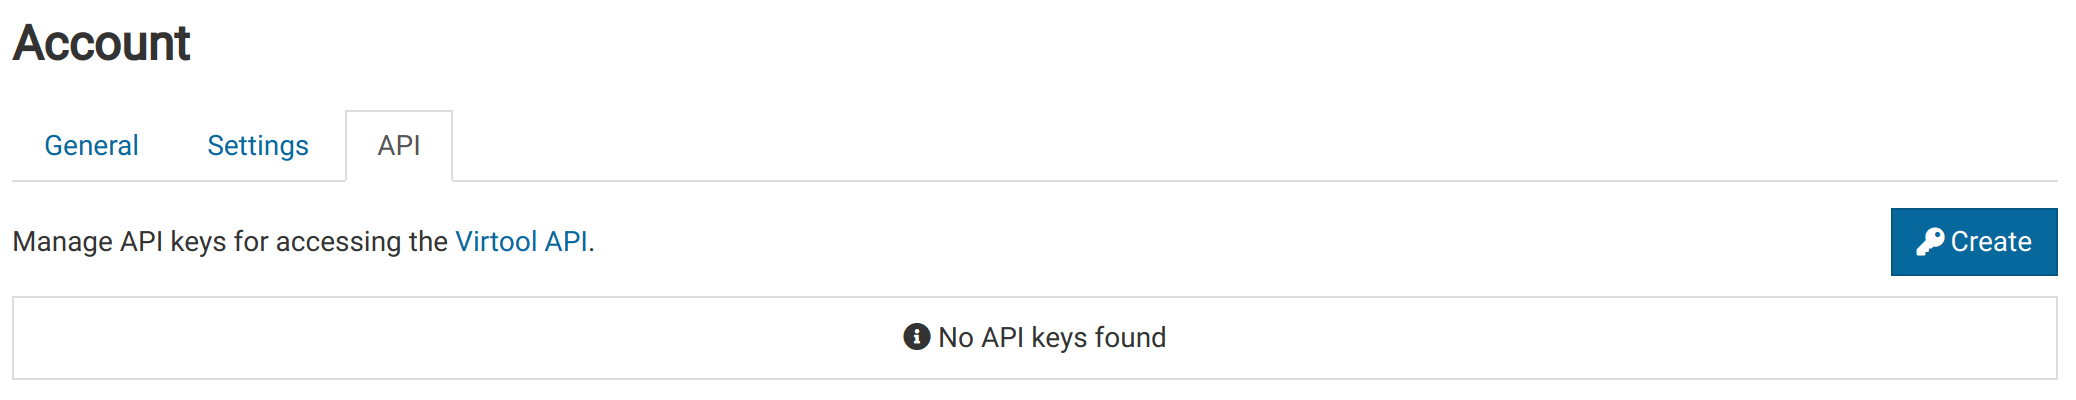
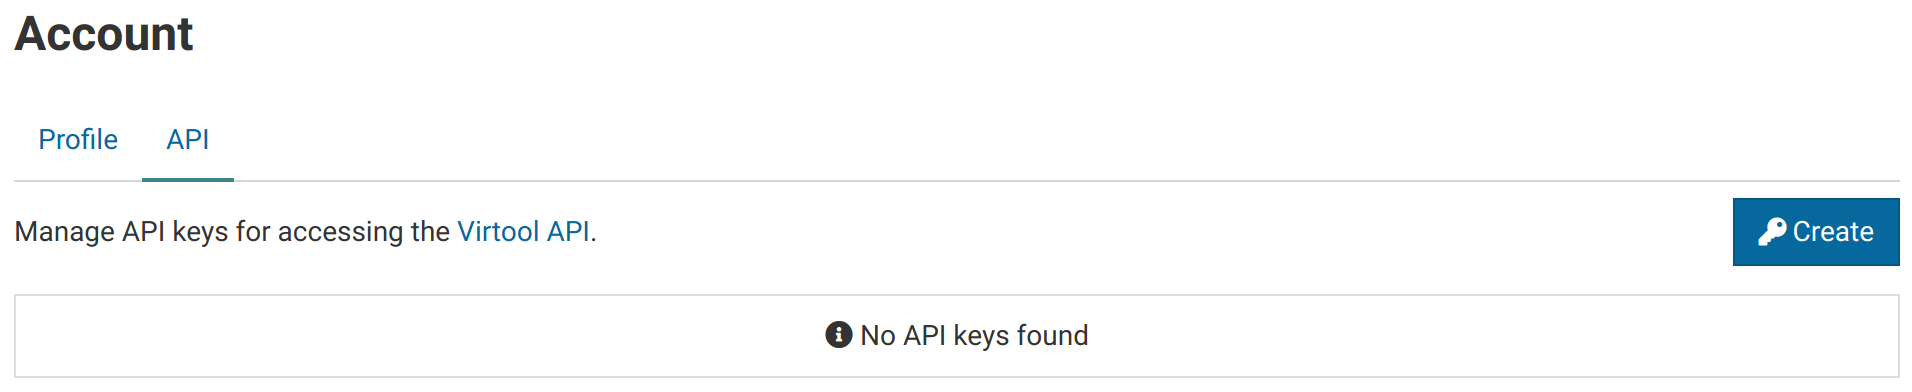
Update account user guide

diff --git a/content/docs/manual/ug_account/index.md b/content/docs/manual/ug_account/index.md
@@ -28,14 +28,6 @@ You can change your password under the _General_ tab. By default, new passwords 
 
 ![Change Password](password.png)
 
-# Settings {#settings}
-
-Some settings are account-specific. These can be modified under the _Settings_ tab.
-
-Currently, the only account-specific settings is toggling the visibility of unique IDs in the user interface. They are useful for debugging purposes and are invisible by default.
-
-![Settings](settings.png)
-
 # API Keys {#api_keys}
 
 Virtool exposes a complete [JSON API](/docs/developer/api_account/). Access to the API is managed using [API keys](https://www.virtool.ca/docs/developer/api_authentication/).
